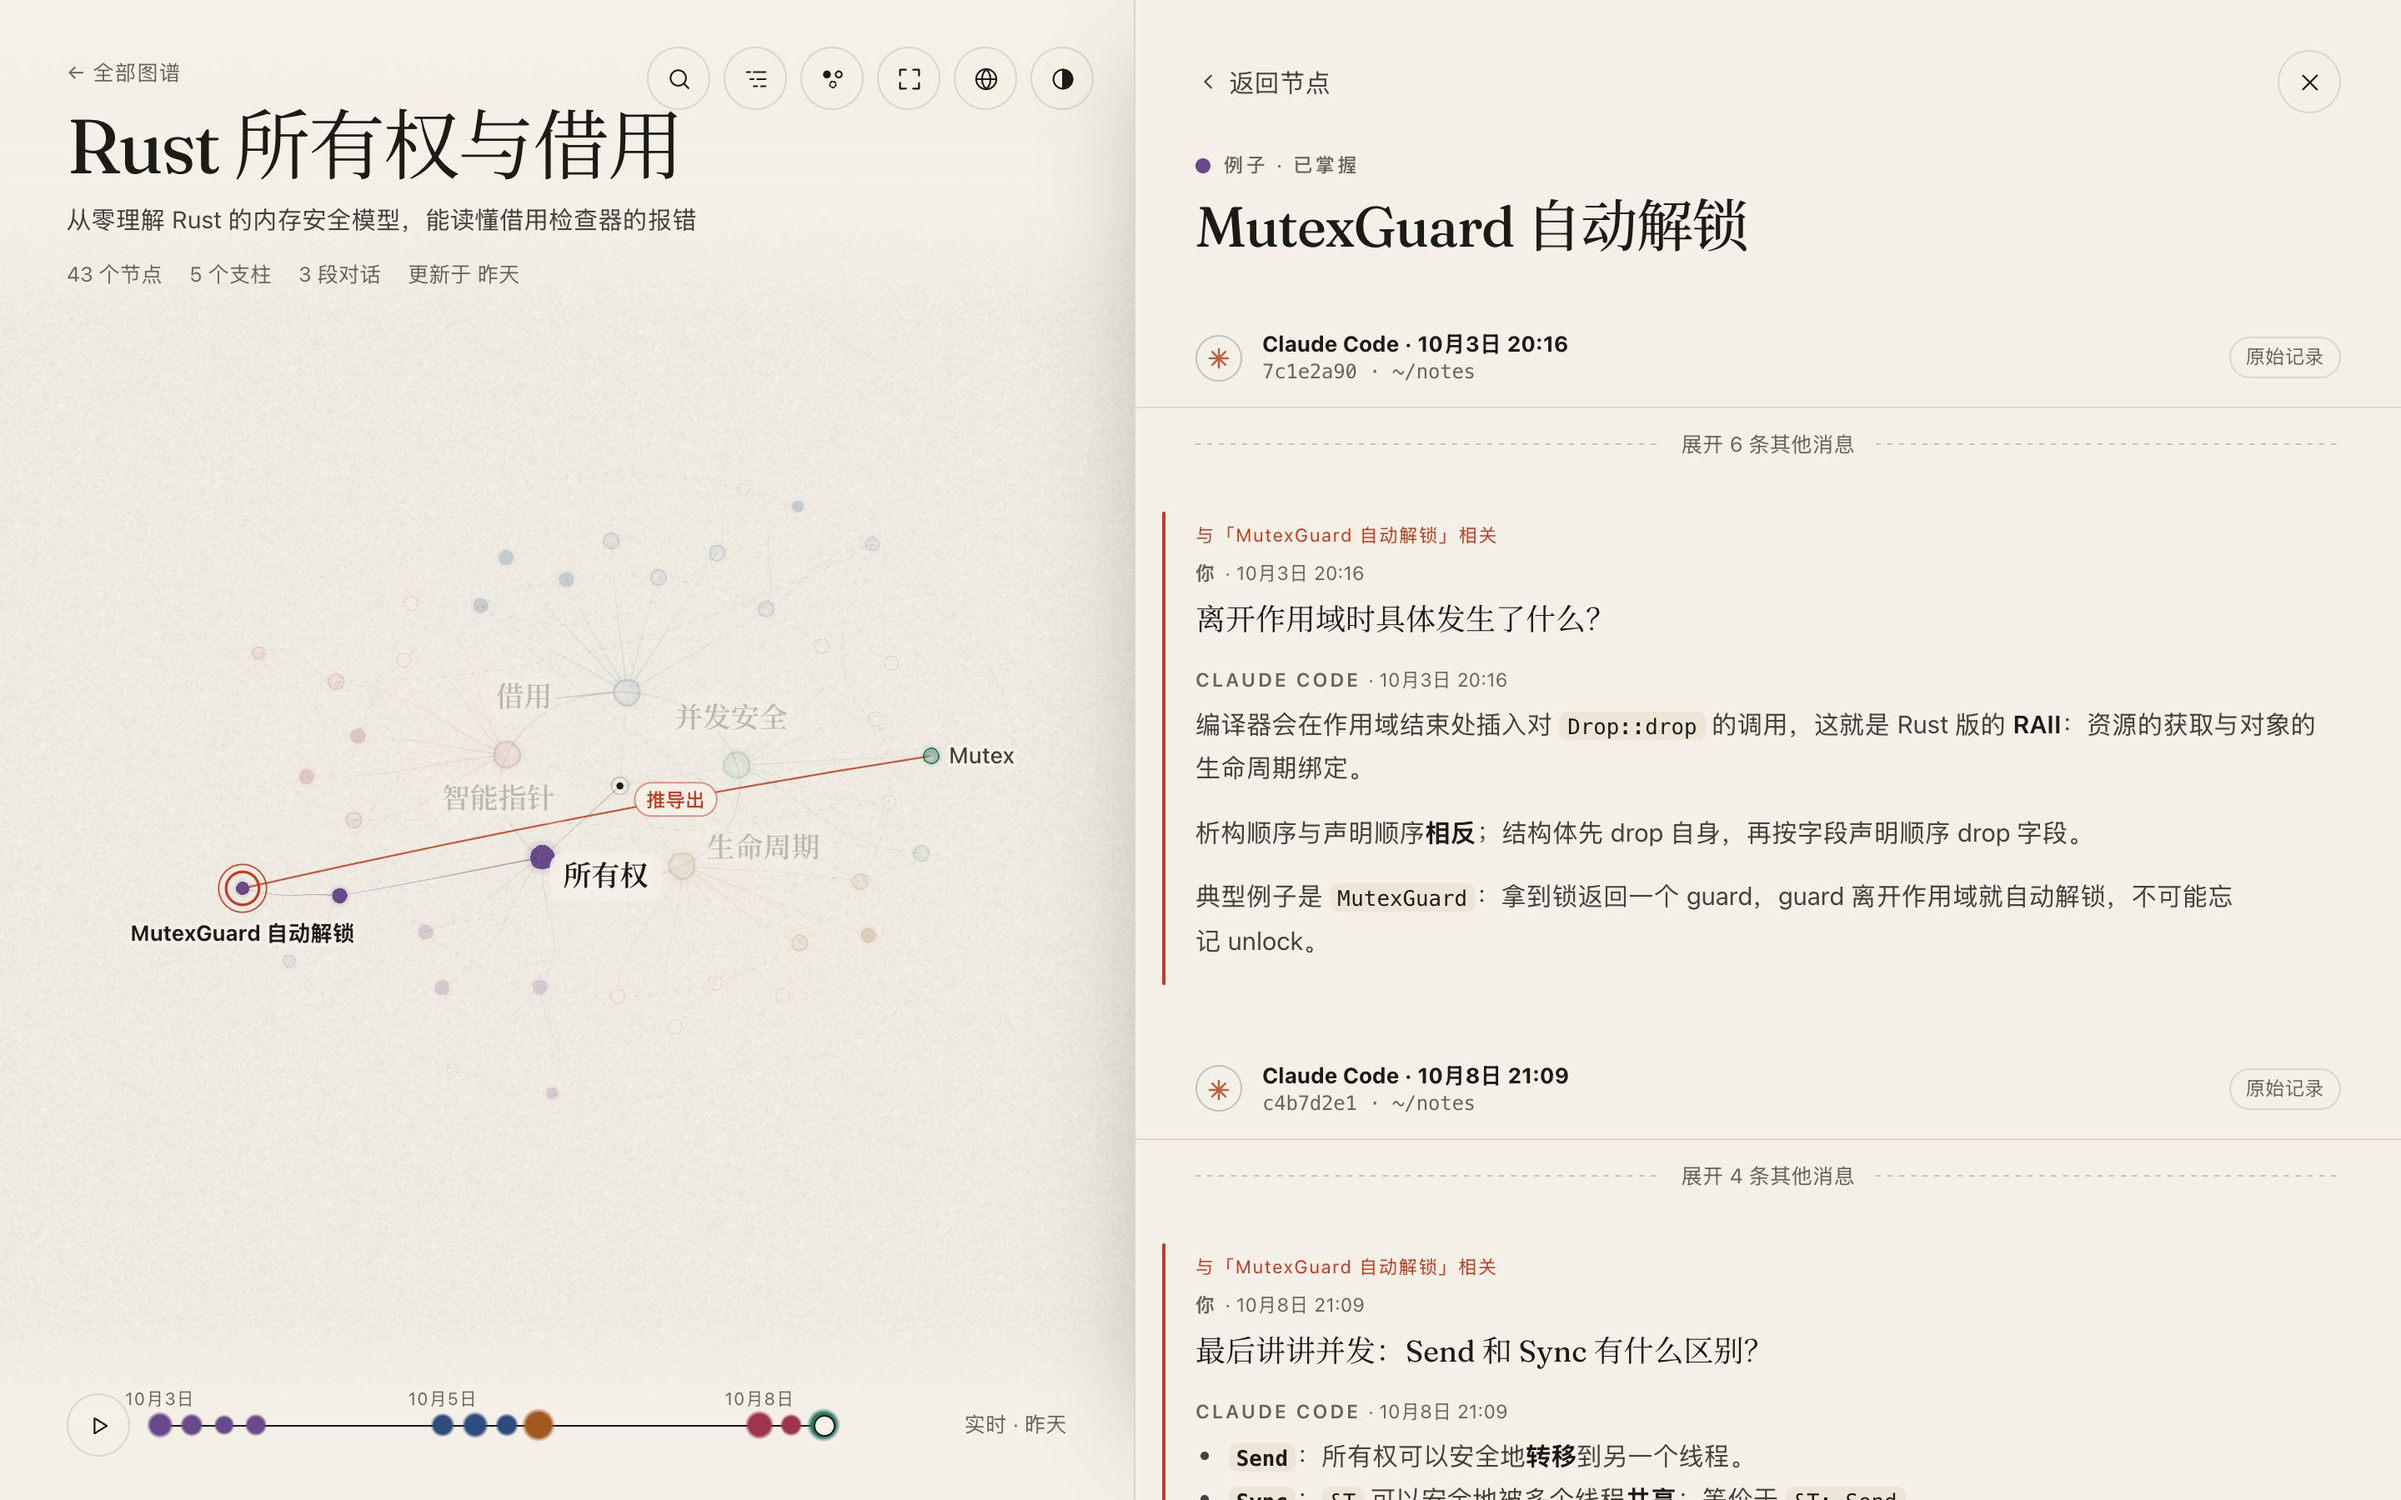
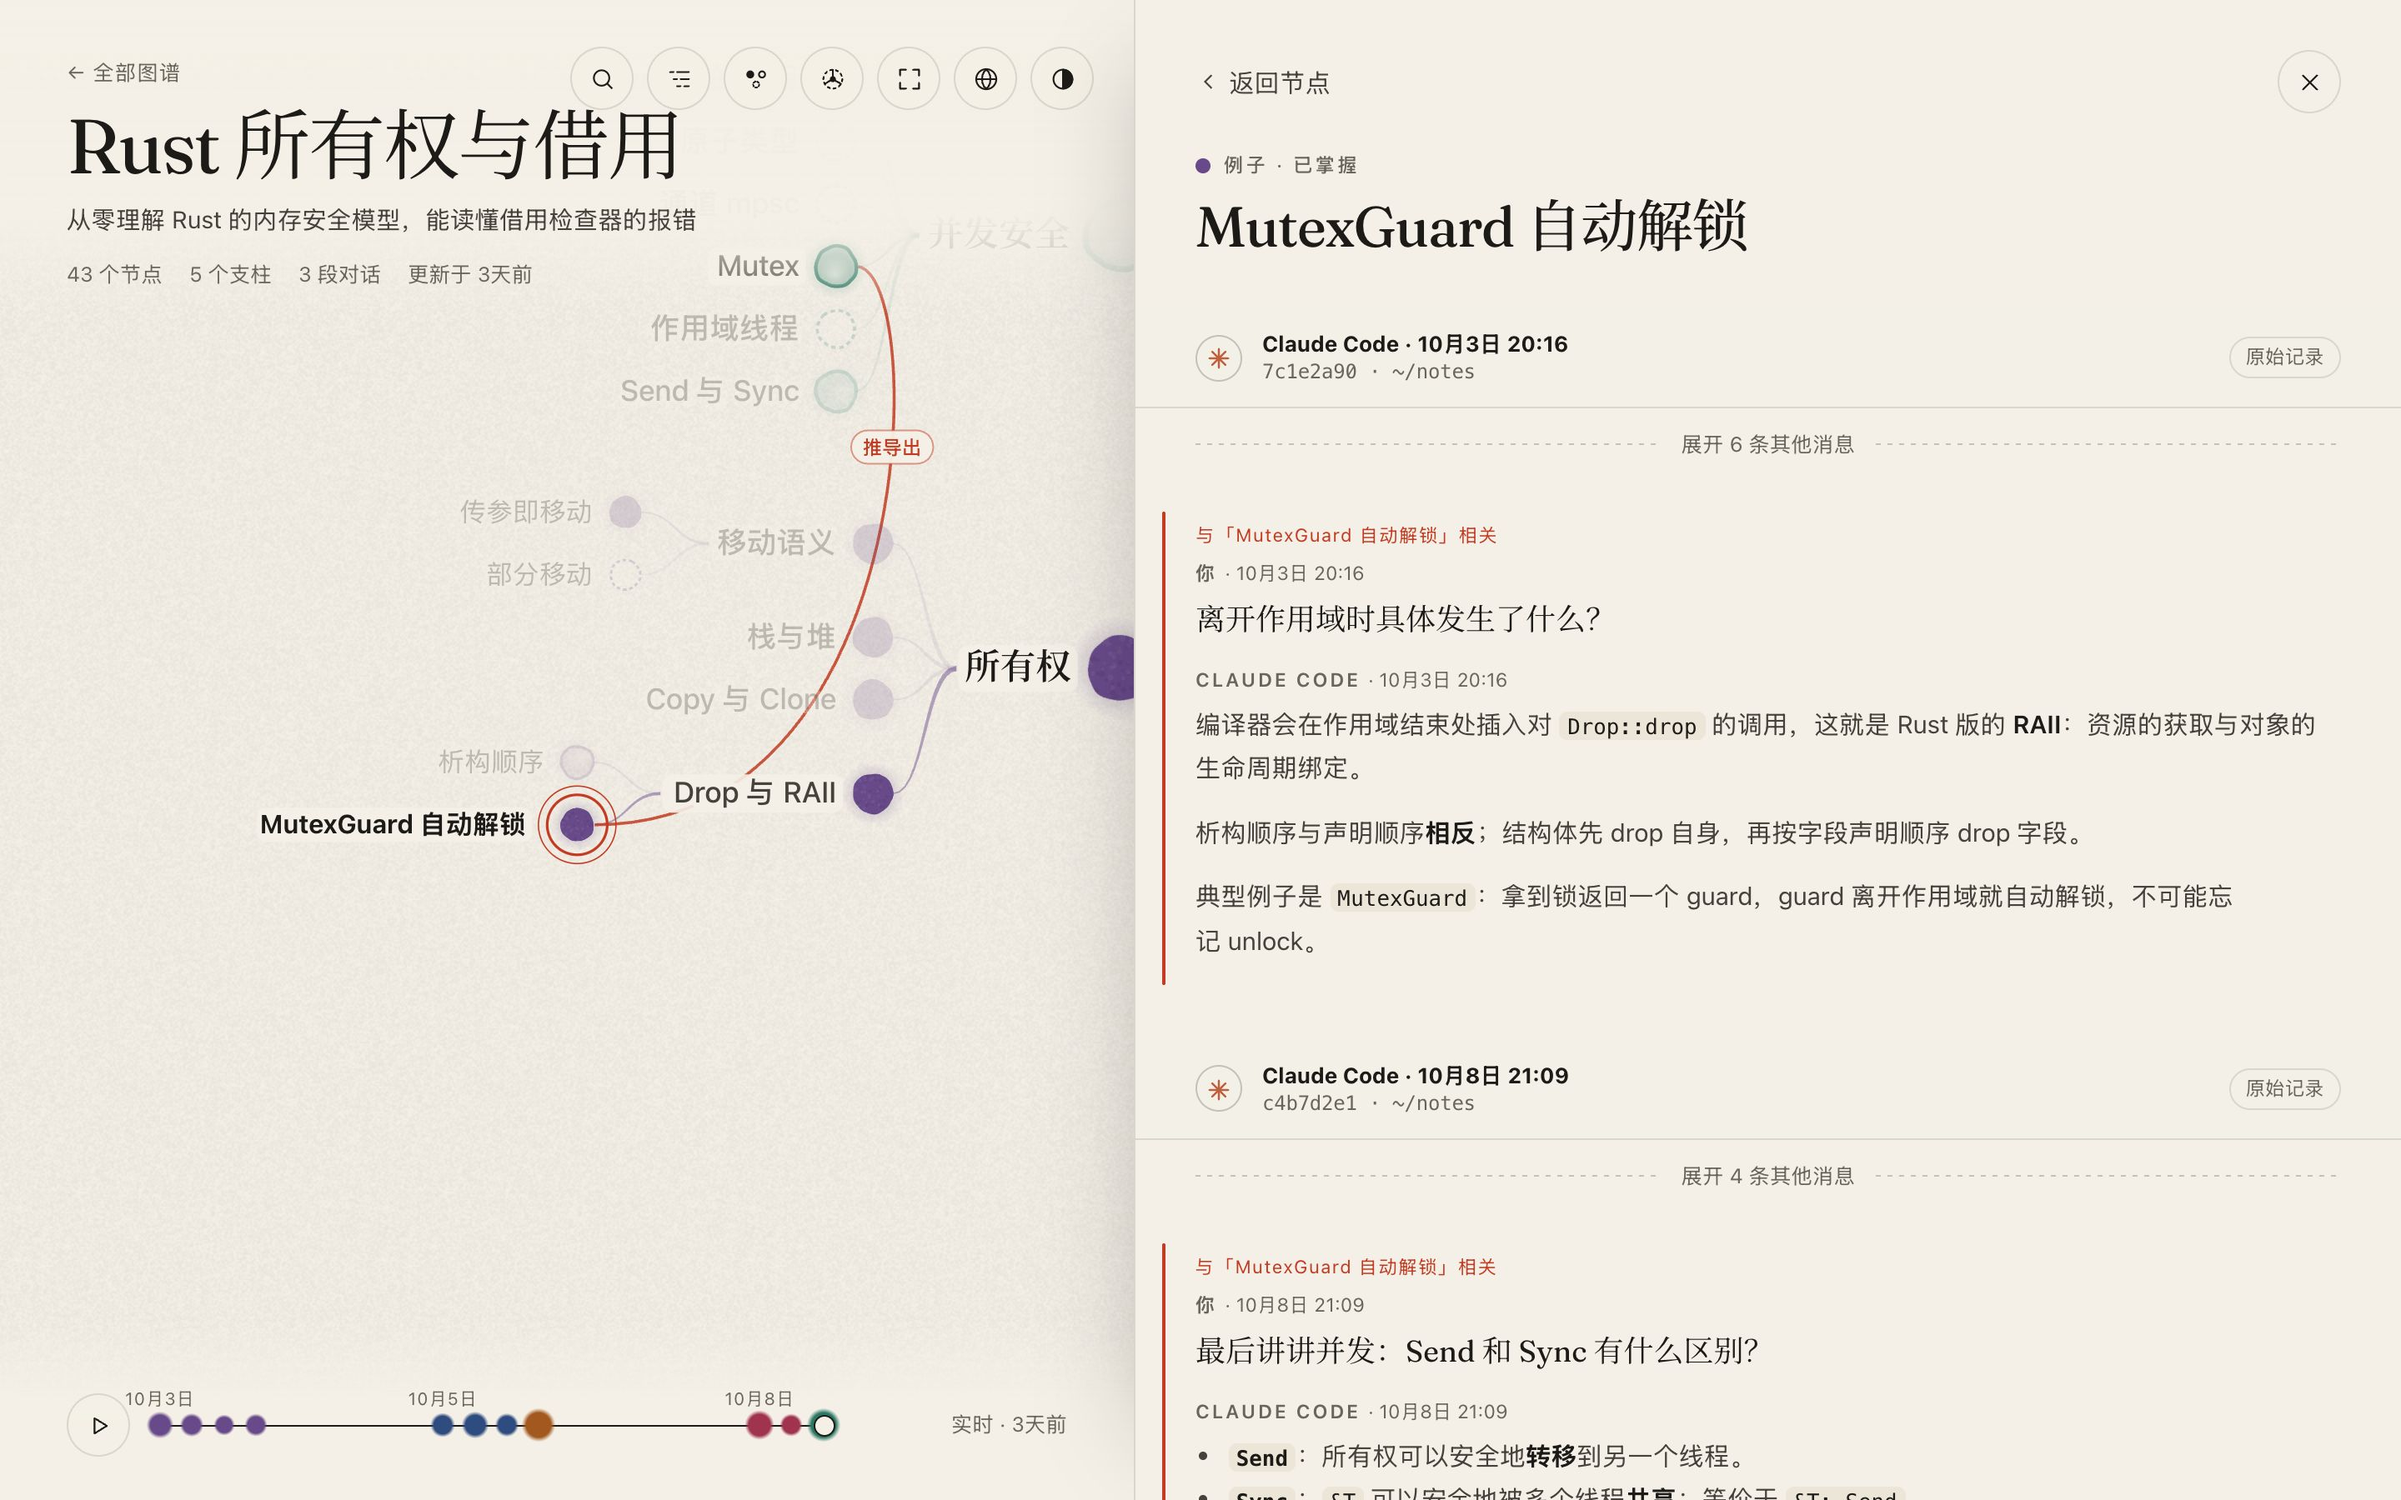
docs: show the mind-map view and both views in the README

diff --git a/README.md b/README.md
@@ -14,9 +14,9 @@
 
 ## Featured: Diffusion Maps
 
-Learn a field or shape an idea across many conversations. The agent starts from a few **pillars**, then grows and restructures the map as you talk. Every node remembers the Claude Code or Codex conversation it came from, and a local viewer draws it all like ink spreading on paper.
+Learn a field or shape an idea across many conversations. The agent starts from a few **pillars**, then grows and restructures the map as you talk. Every node remembers the Claude Code or Codex conversation it came from, and a local viewer draws it all in ink on paper.
 
-<p align="center"><img src="docs/images/diffusion-map/en-map.jpg" alt="A diffusion map about Rust ownership: five pillars with their branches, and a timeline of ink drops along the bottom" width="100%"></p>
+<p align="center"><img src="docs/images/diffusion-map/en-map.jpg" alt="A map about Rust ownership as a two-sided mind map: five pillars with their branches, and a timeline of ink drops along the bottom" width="100%"></p>
 
 <table>
   <tr>
@@ -27,10 +27,19 @@ Learn a field or shape an idea across many conversations. The agent starts from 
     <td><sub><b>Back to the source.</b> Open a node to reread the conversations behind it, with the relevant turns marked.</sub></td>
     <td><sub><b>Not just learning.</b> Each map defines its own node kinds and statuses, so it can also shape a project or weigh a decision.</sub></td>
   </tr>
+  <tr>
+    <td width="50%"><img src="docs/images/diffusion-map/en-radial.jpg" alt="The same Rust map in the diffusion view: pillars on a ring with branches spreading outward"></td>
+    <td width="50%"><img src="docs/images/diffusion-map/en-home.jpg" alt="The index of maps, each card with a live thumbnail"></td>
+  </tr>
+  <tr>
+    <td><sub><b>Two views.</b> Read it as a mind map (default) or switch to the diffusion view for the overall shape.</sub></td>
+    <td><sub><b>All your maps.</b> Each card shows a live thumbnail; delete the ones you no longer need.</sub></td>
+  </tr>
 </table>
 
 - **Grows with the conversation.** The agent decides when to add, merge, move or retire nodes, and asks only when unsure.
-- **Picks up where you left off.** Maps live in `~/.efficient-coding/diffusion/`. Continue in any later session, in either agent, and delete the ones you no longer need from the index page.
+- **Picks up where you left off.** Maps live in `~/.efficient-coding/diffusion/`. Continue in any later session, in either agent.
+- **Readable at any size.** The mind map folds deeper levels into "+N" so names stay legible; click to unfold.
 - **Replayable.** The timeline replays how the map grew, one ink drop per moment of growth.
 - **Zero setup.** Needs only Bun: no install, no build. The viewer stops by itself when idle.
 

diff --git a/README_ZH.md b/README_ZH.md
@@ -14,9 +14,9 @@
 
 ## 精选：扩散图谱
 
-跨越多次对话学一个领域，或者打磨一个构思。Agent 先确立几个**支柱**，再随着对话把图谱向外生长、重组。每个节点都记得它来自哪段 Claude Code 或 Codex 对话，本地网页把这一切画成在宣纸上晕开的墨迹。
+跨越多次对话学一个领域，或者打磨一个构思。Agent 先确立几个**支柱**，再随着对话把图谱向外生长、重组。每个节点都记得它来自哪段 Claude Code 或 Codex 对话，本地网页用宣纸与墨迹的风格把这一切画出来。
 
-<p align="center"><img src="docs/images/diffusion-map/zh-map.jpg" alt="一张关于 Rust 所有权的扩散图谱：五个支柱和它们的分支，底部是由墨滴组成的时间轴" width="100%"></p>
+<p align="center"><img src="docs/images/diffusion-map/zh-map.jpg" alt="一张关于 Rust 所有权的双侧思维导图：五个支柱和它们的分支，底部是由墨滴组成的时间轴" width="100%"></p>
 
 <table>
   <tr>
@@ -27,10 +27,19 @@
     <td><sub><b>回到源头。</b>点开节点，就能重读它背后的对话，相关的轮次已经标出。</sub></td>
     <td><sub><b>不只是学习。</b>每张图自己定义节点类型和状态，也能用来构思项目、权衡决策。</sub></td>
   </tr>
+  <tr>
+    <td width="50%"><img src="docs/images/diffusion-map/zh-radial.jpg" alt="同一张 Rust 图谱的扩散视图：支柱排成一圈，分支向外晕开"></td>
+    <td width="50%"><img src="docs/images/diffusion-map/zh-home.jpg" alt="图谱列表，每张卡片带实时缩略图"></td>
+  </tr>
+  <tr>
+    <td><sub><b>两种视图。</b>默认按思维导图阅读，也可以切换到扩散视图看整体形状。</sub></td>
+    <td><sub><b>所有图谱。</b>每张卡片都有实时缩略图，不再需要的可以直接删除。</sub></td>
+  </tr>
 </table>
 
 - **随对话生长**：何时新增、合并、移动或搁置节点，由 Agent 自己判断，拿不准时才问你。
-- **随时接着来**：图谱保存在 `~/.efficient-coding/diffusion/`，之后任何一次会话、两种 Agent 都能继续；不再需要的图谱可以在列表页直接删除。
+- **随时接着来**：图谱保存在 `~/.efficient-coding/diffusion/`，之后任何一次会话、两种 Agent 都能继续。
+- **多大都看得清**：思维导图会把更深的层级折叠成"+N"，保证名字始终可读，点击即可展开。
 - **可以回放**：时间轴按真实时间回放图谱的生长，每一次生长是一滴墨。
 - **零配置**：只需要 Bun，不用装依赖、也不用构建；网页服务闲置后自动退出。
 
